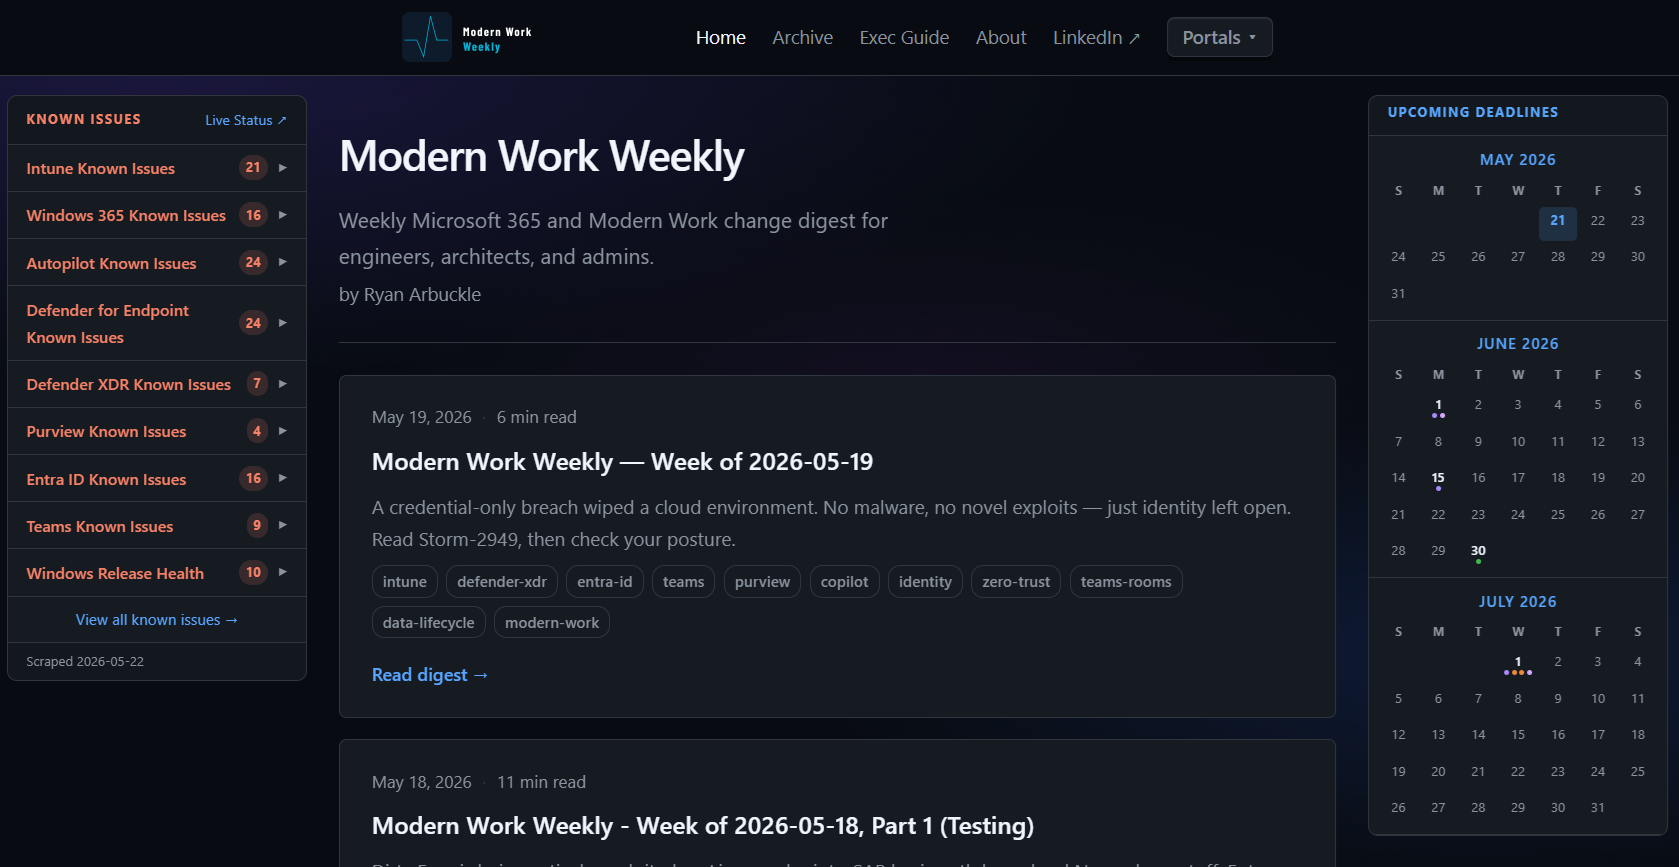
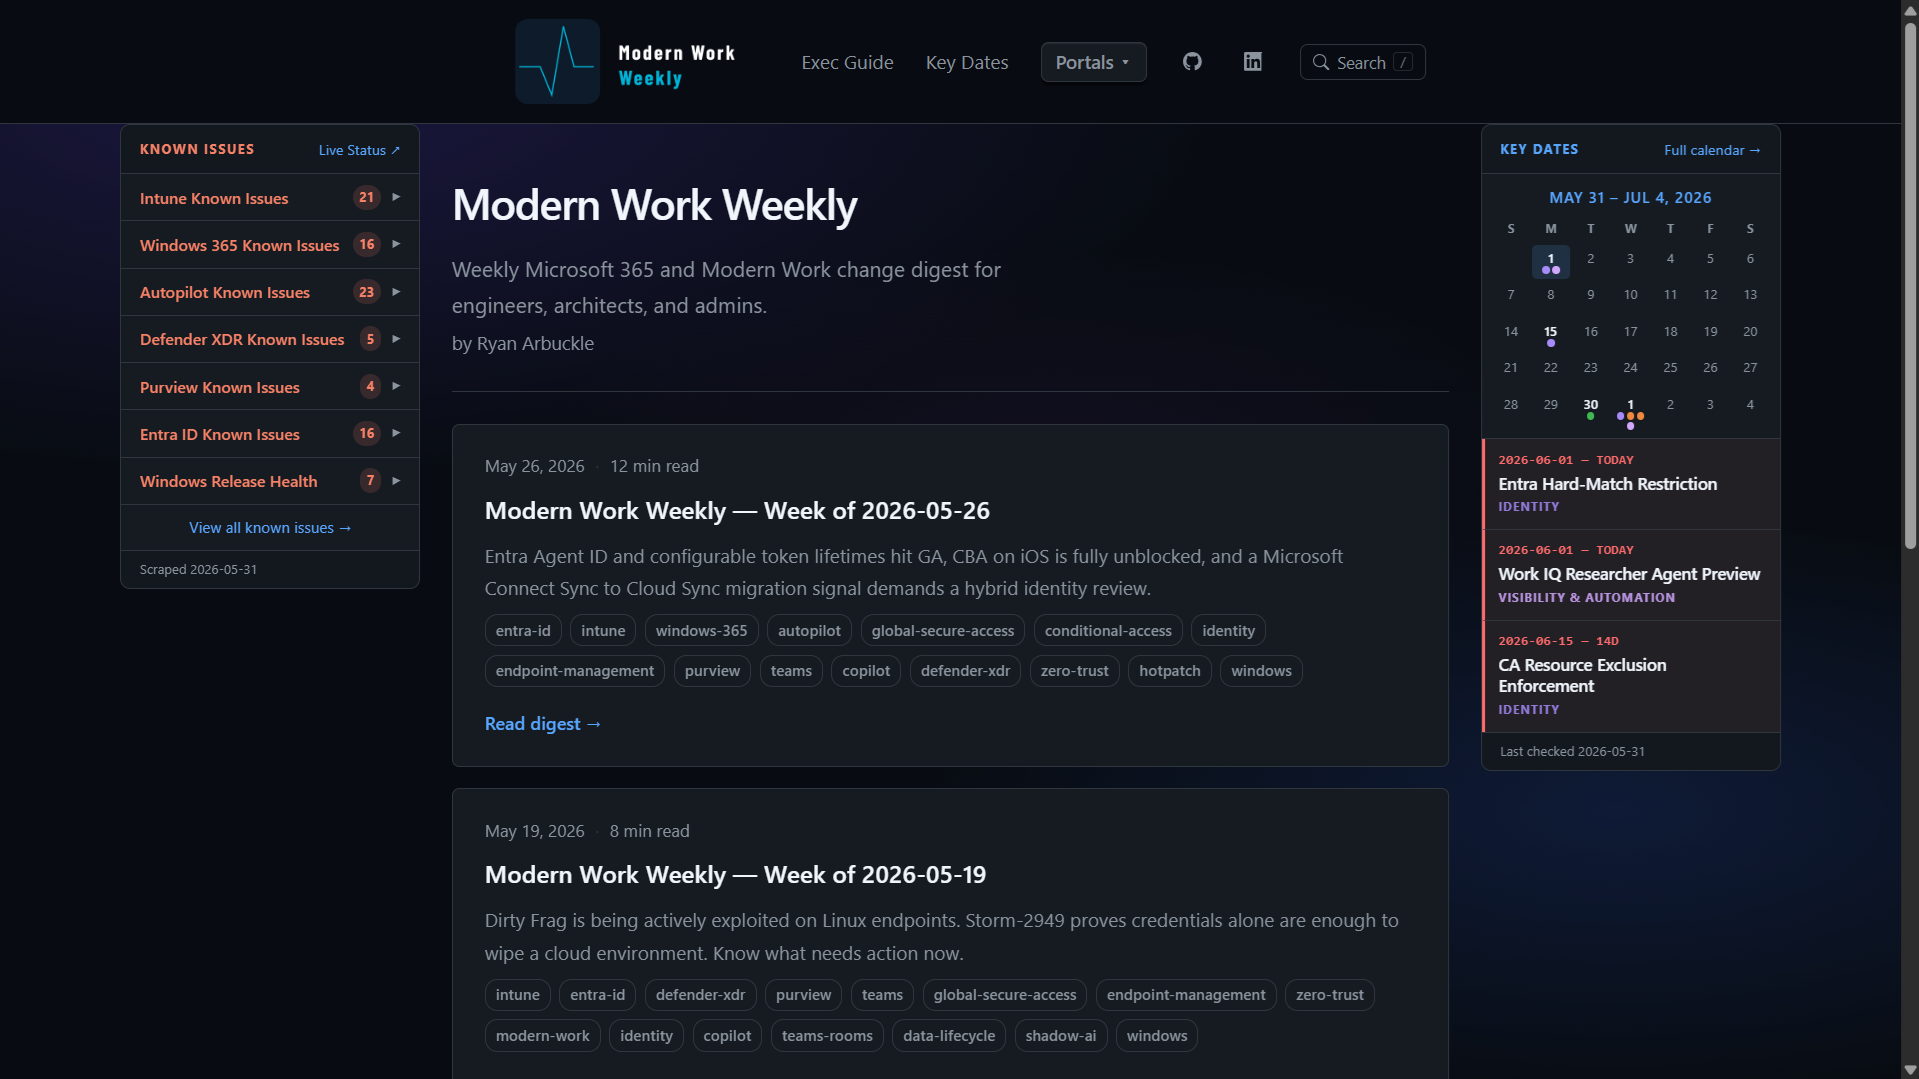
docs: add homepage screenshot and restore docs section

diff --git a/README.md b/README.md
@@ -17,6 +17,10 @@ Scraped from 17+ Microsoft sources · Drafted by Claude · Published every Tuesd
 
 ---
 
+![Site preview](docs/screenshots/homepage.png)
+
+---
+
 ## What this is
 
 **Modern Work** is Microsoft's framework for secure, cloud-connected productivity — built around Microsoft 365 and the **Zero Trust** security model. Modern Work engineers own the full stack: identity (Entra ID), device compliance (Intune), data protection (Purview), threat detection (Defender), and network access (Global Secure Access).
@@ -127,6 +131,17 @@ Three cron jobs run automatically on a self-hosted LXC:
 | `lxc/bootstrap.sh` | Fresh Ubuntu 24.04 LXC setup — installs all dependencies |
 | `caddy/Caddyfile` | Caddy reverse proxy config (serves on :8080 behind Cloudflare Tunnel) |
 | `cloudflare/tunnel.yml` | Cloudflare Tunnel config reference |
+
+</details>
+
+<details>
+<summary><strong>docs/</strong> — Reference documentation</summary>
+
+| File | Description |
+|---|---|
+| `SETUP.md` | Full initial setup guide — LXC to live site |
+| `WEEKLY_WORKFLOW.md` | Weekly pipeline reference and troubleshooting |
+| `PIPELINE.md` | Claude API and digest pipeline internals |
 
 </details>
 